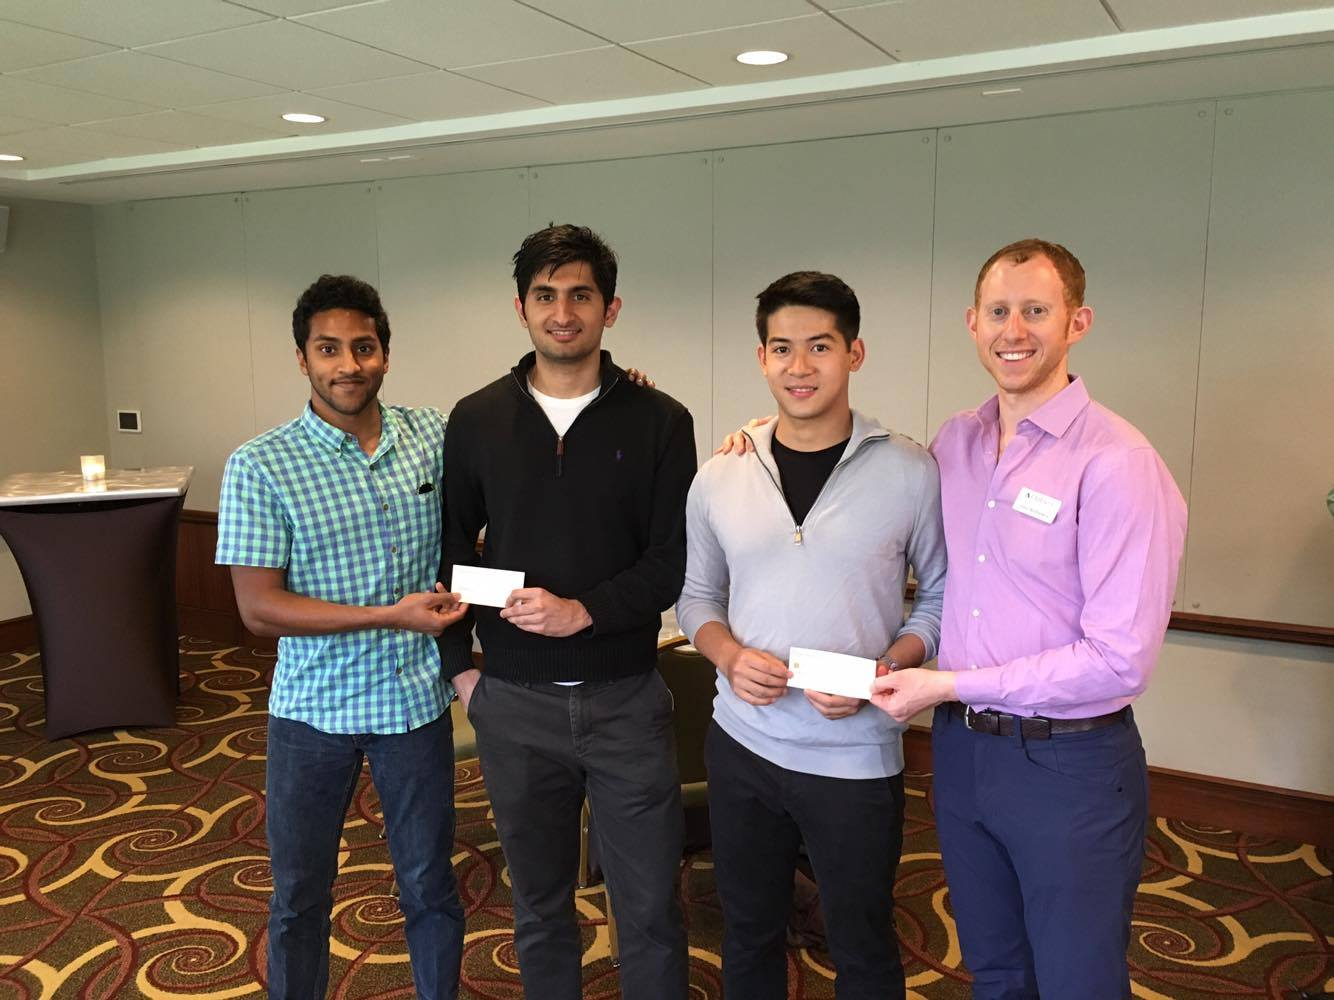
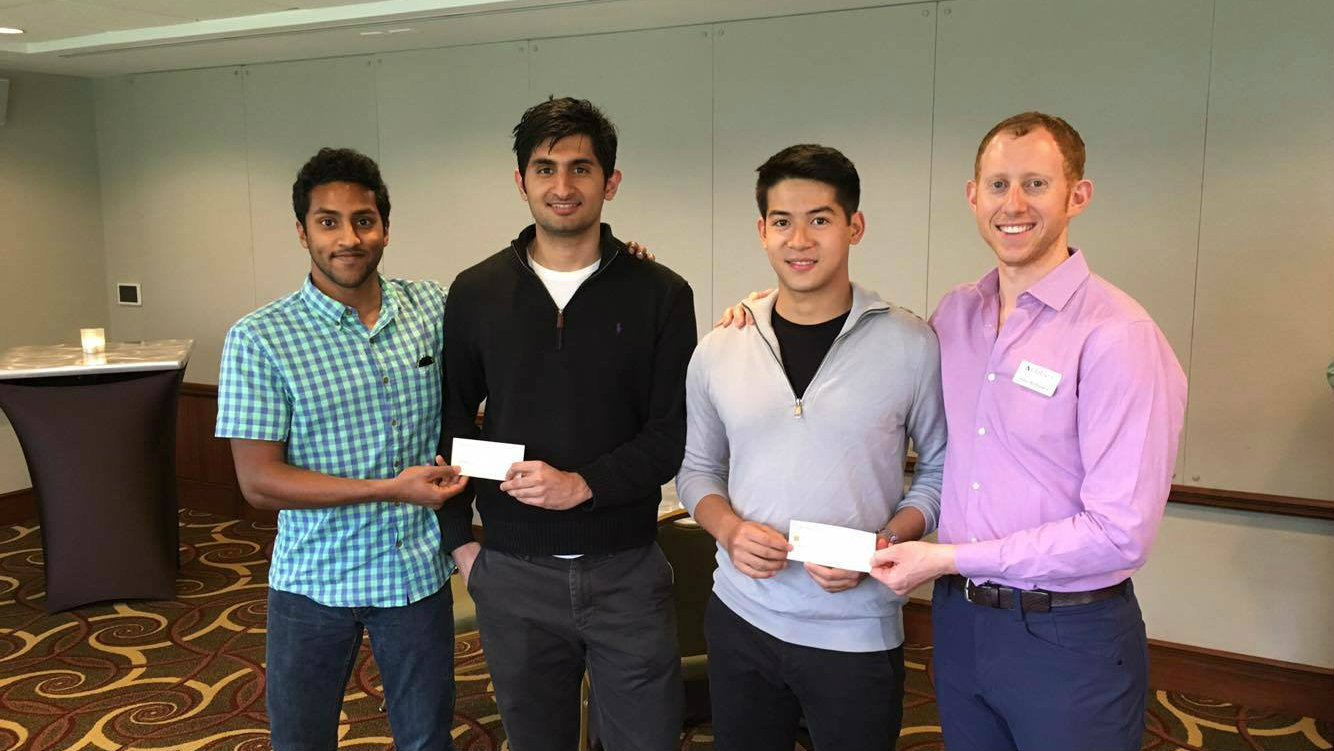
12.10.16 Sponsorship Update

diff --git a/js/challengePhotoGallery.js b/js/challengePhotoGallery.js
@@ -1,0 +1,79 @@
+/*Global variables defined before functions*/
+var index = 0;
+var gallery = ["sparkstoneChallenge2016.jpg", "first_place.jpg", "second_place.jpg", "third_place.jpg"];
+/*These images came from
+    - applepizza.jpg: http://cookdiary.net/wp-content/uploads/images/Apple_Pizza_5053.jpg
+    - caramel_apples.jpg: http://thefoodiepatootie.com/wp-content/uploads/2014/10/caramel-apples-recipe.jpg
+    - applepie.jpg: http://keeprecipes.com/sites/keeprecipes/files/24026_1360179318_0.jpg
+    - applecider.jpg: http://s3.amazonaws.com/etntmedia/media/images/ext/489087461/apple-cider.jpg
+    - apples.jpg: http://greatist.com/sites/default/files/styles/fb-1200x630/public/wp-content/uploads/2011/11/Apples.jpg?itok=u4daunae
+    */
+var apple_festival = document.getElementById('challengeImage');
+var buttons = document.getElementById("buttons").getElementsByTagName("span"); 
+
+/*Event handlers. Perform certain functions when onclick*/
+document.getElementById("next_image").onclick = myNext;
+document.getElementById("prev_image").onclick = myPrev;
+document.getElementById("1").onclick = myButton;
+document.getElementById("2").onclick = myButton;
+document.getElementById("3").onclick = myButton;
+document.getElementById("4").onclick = myButton;
+
+/*Press next tab to select next image from the gallery*/
+function myNext(){
+    for (var i = 0; i < buttons.length; i++) { 
+        if (buttons[i].className == "on") {
+            buttons[i].className = "";
+            break;
+        }
+    }
+
+    if (index < gallery.length - 1) {
+        buttons[index + 1].className = "on";
+        index += 1;
+        challengeImage.src = 'images/' + gallery[index];
+    }else{
+        index = 0;
+        challengeImage.src = 'images/' + gallery[index];
+        buttons[0].className = "on";
+    }
+}
+
+/*Press previous tab to select next image from the gallery*/
+function myPrev(){
+    for (var i = 0; i < buttons.length; i++) {
+        if (buttons[i].className == "on") {
+            buttons[i].className = "";
+            break;
+        }
+    }
+
+    if (index > 0) {
+        buttons[index - 1].className = "on";
+        index -= 1;
+        challengeImage.src = 'images/' + gallery[index];
+    }else{
+        index = gallery.length - 1;
+        challengeImage.src = 'images/' + gallery[index];
+        buttons[gallery.length - 1].className = "on";
+    }
+}
+
+/*Press different buttons to alter the image displayed*/
+function myButton(){
+    var myIndex = parseInt(this.getAttribute('id'));
+    index = myIndex - 1;
+
+    for (var j = 0; j < buttons.length; j++) {
+        if (this.className == "on") {
+            return;
+        }
+
+        if (buttons[j].className == "on") {
+            buttons[j].className = "";
+            break;
+        }
+    }
+    challengeImage.src = 'images/' + gallery[index];
+    buttons[index].className = "on";
+}

diff --git a/registration.html b/registration.html
@@ -10,6 +10,7 @@
   <script src="https://ajax.googleapis.com/ajax/libs/jquery/1.11.3/jquery.min.js"></script>
   <script src="http://maxcdn.bootstrapcdn.com/bootstrap/3.3.5/js/bootstrap.min.js"></script>
   <link rel="stylesheet" type="text/css" href="css/mainstylesheet.css">
+    <link rel="stylesheet" type="text/css" href="css/imageGallery.css">
   <link rel="shortcut icon" type="image/ico" href="favicon.ico" />
 
   <script>
@@ -137,13 +138,29 @@
   <div class="container-fluid background-grey">
     <div class="container">
       <div class="row">
-        <h1 class="text-white" id="form">Trading Challenge Timeline</h1>
-        <p class="text-white"> 9.5.16 - Information Session: 5pm at Kennedy Hall 1st Floor, EHub Main Room
-          <br/>9.8.16 - Information Session: 5pm at Kennedy Hall 1st Floor, EHub Main Room
-          <br/>9.9.16 - Application due at midnight
-          <br/>9.12.16 - Welcome for Registrants (Mandatory to participate)
-          <br/>9.17.16 - Education Series: How to Build Strategies
-          <br/>9.30.16 - Competition submission deadline at midnight</p>
+        <h1 class="text-white" id="form">Prior Challenges</h1>
+          <br/>
+        <p class="text-white">Congratulations to our 2016 winners, pictured below receiving their prizes from Optiver:</p>
+          <div class="box" id="box">
+                <img id="challengeImage" src="images/sparkstoneChallenge2016.jpg" alt="Apple Harvest Festival">
+                <!--Image found from http://www.downtownithaca.com/ithaca-events/Apple%20Harvest%20Festival%20Presented%20by%20Tompkins%20Trust-->
+
+                <div id="buttons">
+
+                    <span id="1" class="on"></span><!--First button is on as default-->
+                    <span id="2"></span>
+                    <span id="3"></span>
+                    <span id="4"></span>
+
+                </div>
+                <!--End of the buttons div-->
+
+                <a id="prev_image" class="tab">&lt;</a>
+
+                <a id="next_image" class="tab">&gt;</a>
+
+            </div>
+            <!--End of the box div-->
           <br/>
           <br/>
       </div>
@@ -285,6 +302,8 @@
       </div>
     </div>
   </footer>
+    
+    <script type="text/javascript"  src="js/challengePhotoGallery.js"></script>
 
 </body>
 

diff --git a/about.html b/about.html
@@ -249,17 +249,6 @@
 
           <div class="col-lg-4 col-md-4 col-sm-6 col-xs-12">
             <div class="profile-pictures">
-              <!--<a href="#Vardan" data-toggle="collapse">-->
-              <img class="headshot2" src="images/vardan_verdiyan.jpg" alt="Vardan Verdiyan">
-              <!--</a>-->
-            </div>
-            <h3>&emsp;Vardan Verdiyan</h3>
-            <h4><i>&emsp; Advisor </i></h4>
-          </div>
-
-
-          <div class="col-lg-4 col-md-4 col-sm-6 col-xs-12">
-            <div class="profile-pictures">
               <a href="#Vivian" data-toggle="collapse"><img class="headshot2" src="images/vivian_lam.jpg" alt="Vivian Lam"></a>
             </div>
             <h3>&emsp;Vivian Lam  </h3>
@@ -269,6 +258,16 @@
                 Vivian is a sophomore from Hong Kong studying Applied Economics and Management. She has interned at a property investment firm and a short-term real estate rental startup and in Hong Kong. Outside of Sparkstone, she is involved with an equity research club, Cornell Social Venture Club, Cornell Investment Banking Club and Alpha Phi Omega. In her free time, she enjoys working out, traveling, visiting theme parks and eating food.
               </h5>
             </div>
+          </div>
+            
+            <div class="col-lg-4 col-md-4 col-sm-6 col-xs-12">
+            <div class="profile-pictures">
+              <!--<a href="#Vardan" data-toggle="collapse">-->
+              <img class="headshot2" src="images/vardan_verdiyan.jpg" alt="Vardan Verdiyan">
+              <!--</a>-->
+            </div>
+            <h3>&emsp;Vardan Verdiyan</h3>
+            <h4><i>&emsp; Advisor </i></h4>
           </div>
 
           <div class="clearfix visible"></div>

diff --git a/css/imageGallery.css b/css/imageGallery.css
@@ -1,0 +1,74 @@
+/* image gallery css*/
+
+/* general format of box div containing image gallery*/
+.box {
+    margin: auto;
+    max-width: 70%;
+    position: relative;
+    overflow: hidden;
+}
+
+/* format images in gallery*/
+#box > img {
+    max-width: 70%;
+    display: block;
+    margin-left: auto;
+    margin-right: auto
+}
+
+/* format buttons in gallery*/
+#buttons {
+    position: relative;
+    z-index: 2;
+    width: 20%;
+    height: 10px;
+    margin: auto;
+    padding: 10px;
+}
+
+#buttons > span {
+    cursor: pointer;
+    float: left;
+    border: 1px solid #fff;
+    width: 10px;
+    height: 10px;
+    border-radius: 50%;
+    background: white;
+    margin: 5px;
+}
+
+#buttons .on {
+    background: #F2D454;
+}
+
+/* format tabs in gallery*/
+.tab {
+    width: 6%;
+    cursor: pointer;
+    display: block;
+    background: rgba(0,0,0,.3);
+    color: #fff;
+    z-index: 2;
+    position: absolute;
+    font-weight: bold;
+    text-align: center;
+    line-height: 175%;
+    text-decoration: none;
+    top: 50%;
+}
+
+.tab:hover {
+    background: rgba(0,0,0,.7);
+}
+
+#next_image {
+    right: 0px;
+}
+
+#prev_image {
+    left: 0px;
+}
+
+.box:hover .tab {
+    display: block;
+}

diff --git a/home.html b/home.html
@@ -99,7 +99,7 @@
     </div>
   </div>
   <!--Announcements-->
-  <div class="container-fluid background-grey">
+  <!--<div class="container-fluid background-grey">
     <div class="container">
       <div class="row">
         <div class="col-lg-12 col-md-12 col-sm-12 col-xs-12">
@@ -107,7 +107,6 @@
           <br>
           <br>
           <p class="text-white">Our recruitment applications for this semester are due 9.2.16, see our Recruitment tab to learn more.</p>
-          <p class="text-white">We are also accepting registrations for this years Sparkstone Trading Challenge as sponsored by Optiver, visit our Trading Challenge tab to learn more.</p>
           <br>
           <br>
           <br>
@@ -116,6 +115,7 @@
       </div>
     </div>
   </div>
+-->
 
   <!--Footer start-->
   <footer class="site-footer">

diff --git a/recruitment.html b/recruitment.html
@@ -115,11 +115,7 @@
           <h1 class="text-white">Recruitment Timeline</h1>
           <br />
           <br />
-          <p class="text-white">8.30.16 - Meet and Greet: 5 - 6:30pm, Kennedy Hall 1st Floor, EHub Main Room
-            <br /> 9.2.16 - Application due at midnight
-            <br /> 9.3.16 - Interview Invites
-            <br /> 9.5.16 - Interviews
-            <br /> 9.8.16 - Decision</p>
+          <p class="text-white">We are currently accepting applications to join the team on a rolling basis. Fill out the submission form below to apply!</p>
           <br />
           <br />
         </div>
